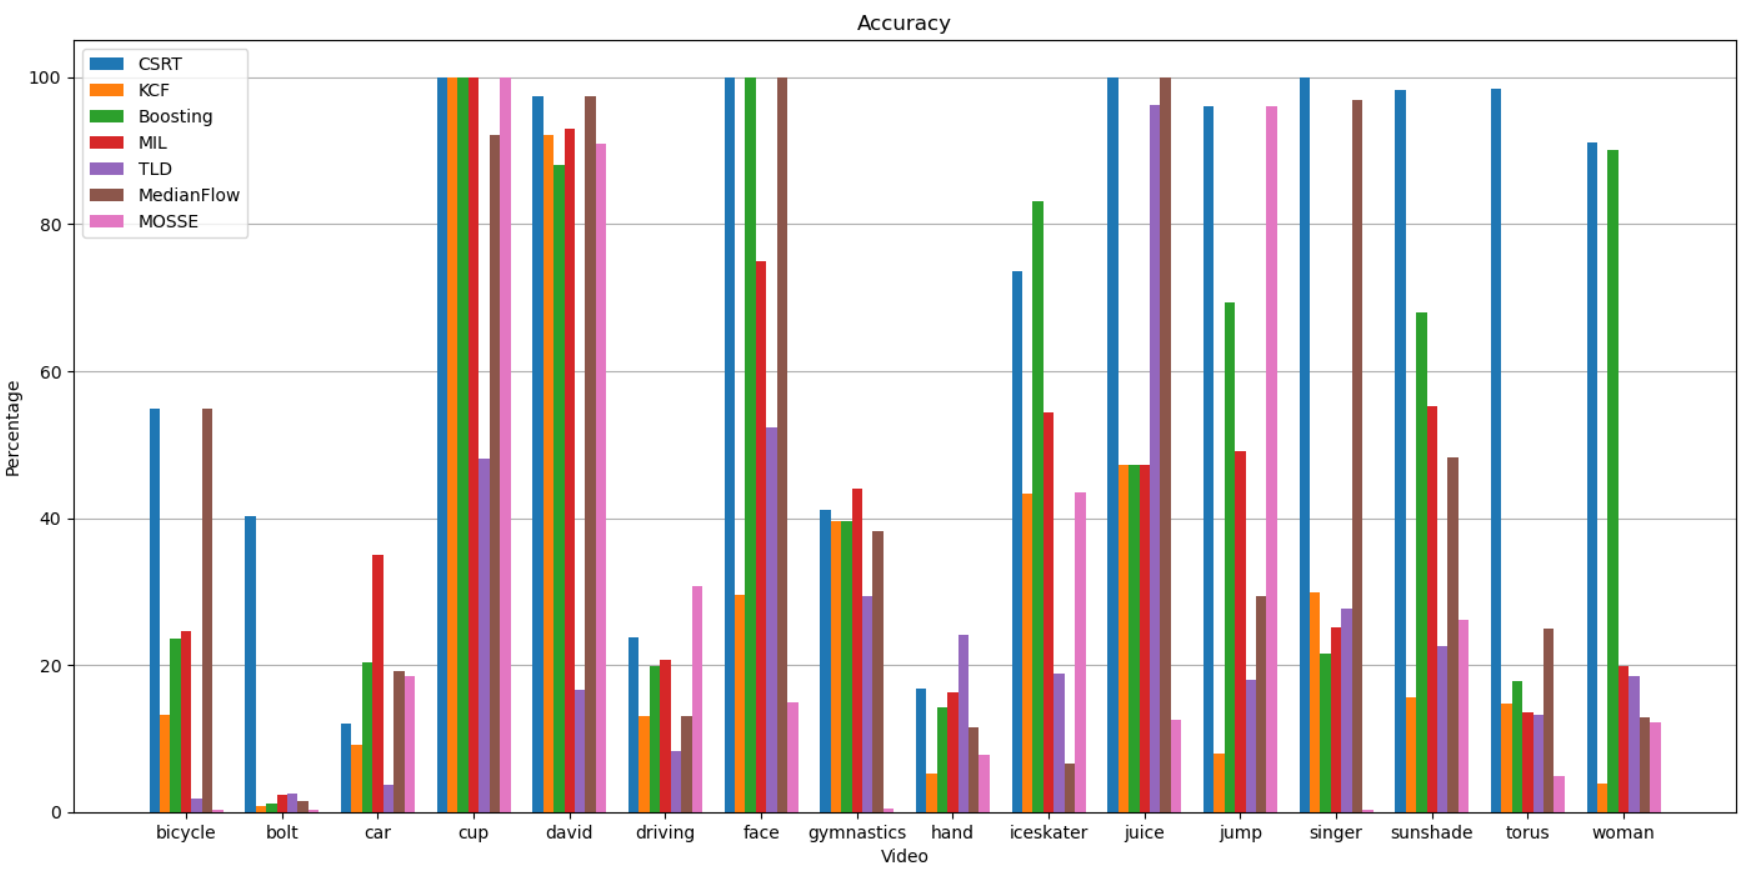
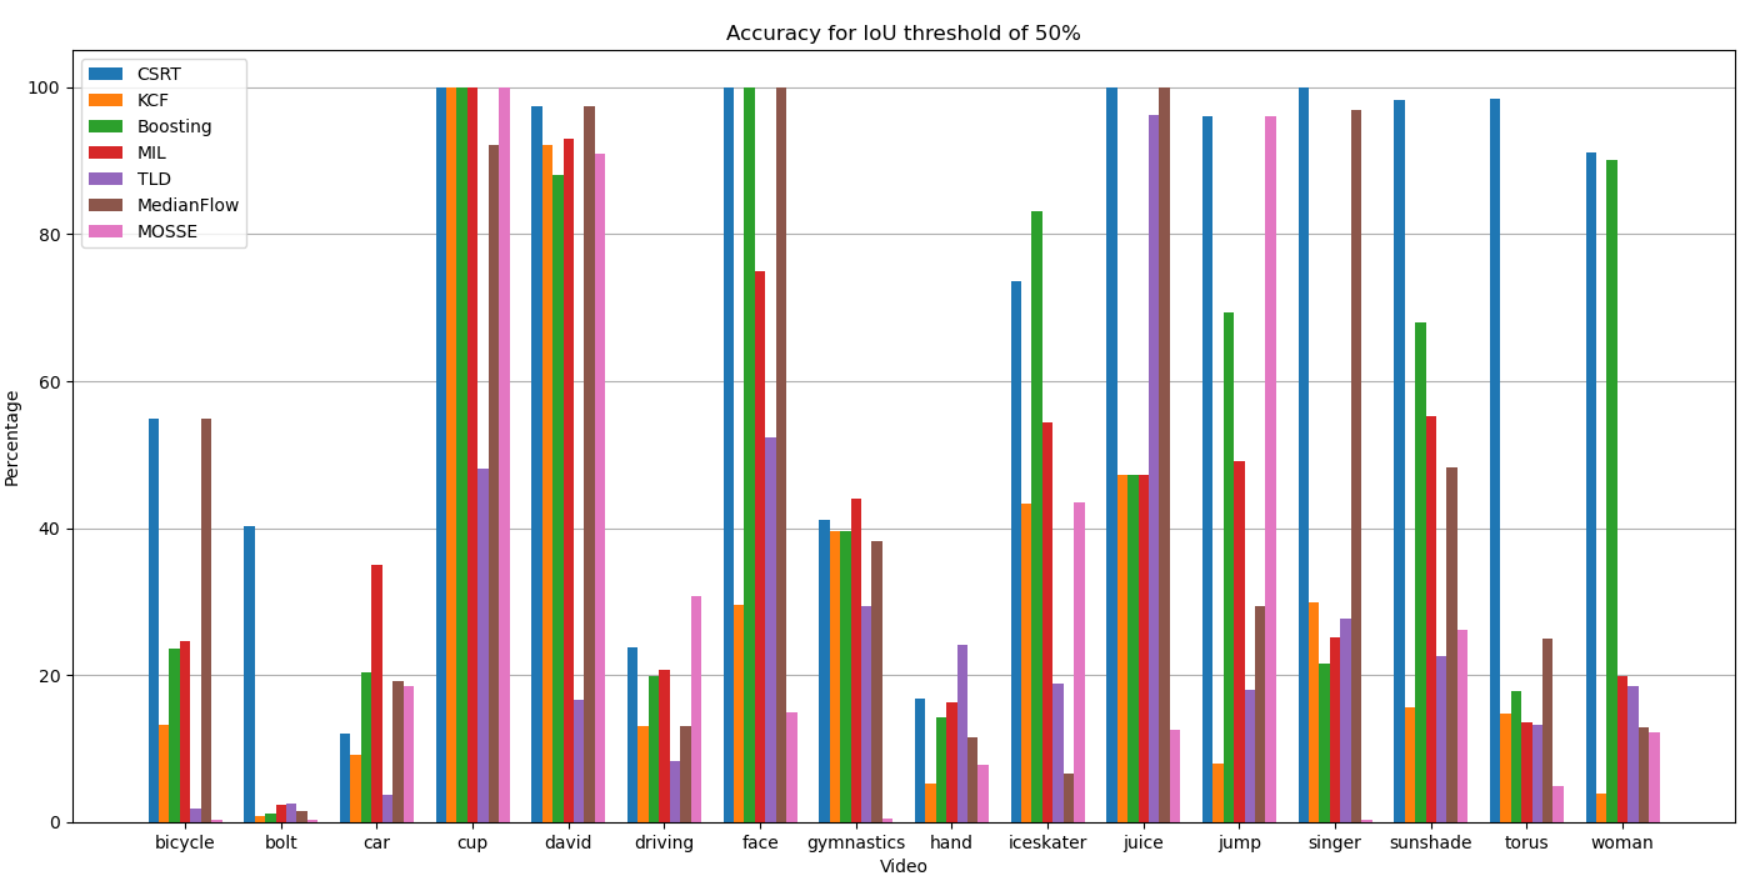
fixed graphs

diff --git a/result_parser.py b/result_parser.py
@@ -68,7 +68,7 @@ def parse_results():
         plt.grid(True, axis='y', zorder=0)
         x = np.arange(values.shape[0])
         for j in range(values.shape[1]):
-            bar_values = values[:, j, 2, t]  # Using only the 50% IoU threshold
+            bar_values = values[:, j, 1, t]  # Using only the 50% IoU threshold
             label = trackers[j]
             ax.bar(x + bar_width * j - bar_width * 3, bar_values, bar_width, label=label, zorder=2)
         ax.set_xlabel("Video")
@@ -87,7 +87,7 @@ def parse_results():
         rects = []
         for j in x:
             bar_values = [values[:, j, threshold, t].mean() for threshold in range(values.shape[-2])]
-            bars_x = [j - (threshold + 1) * bar_width * 1.5 for threshold in range(values.shape[-2])]
+            bars_x = [j + (threshold - 1) * bar_width * 1.5 for threshold in range(values.shape[-2])]
             rects.append(ax.bar(bars_x, bar_values, bar_width, zorder=2))
         ax.set_xlabel("Tracking method")
         ax.set_ylabel("Frames per second" if t == 2 else "Percentage")
